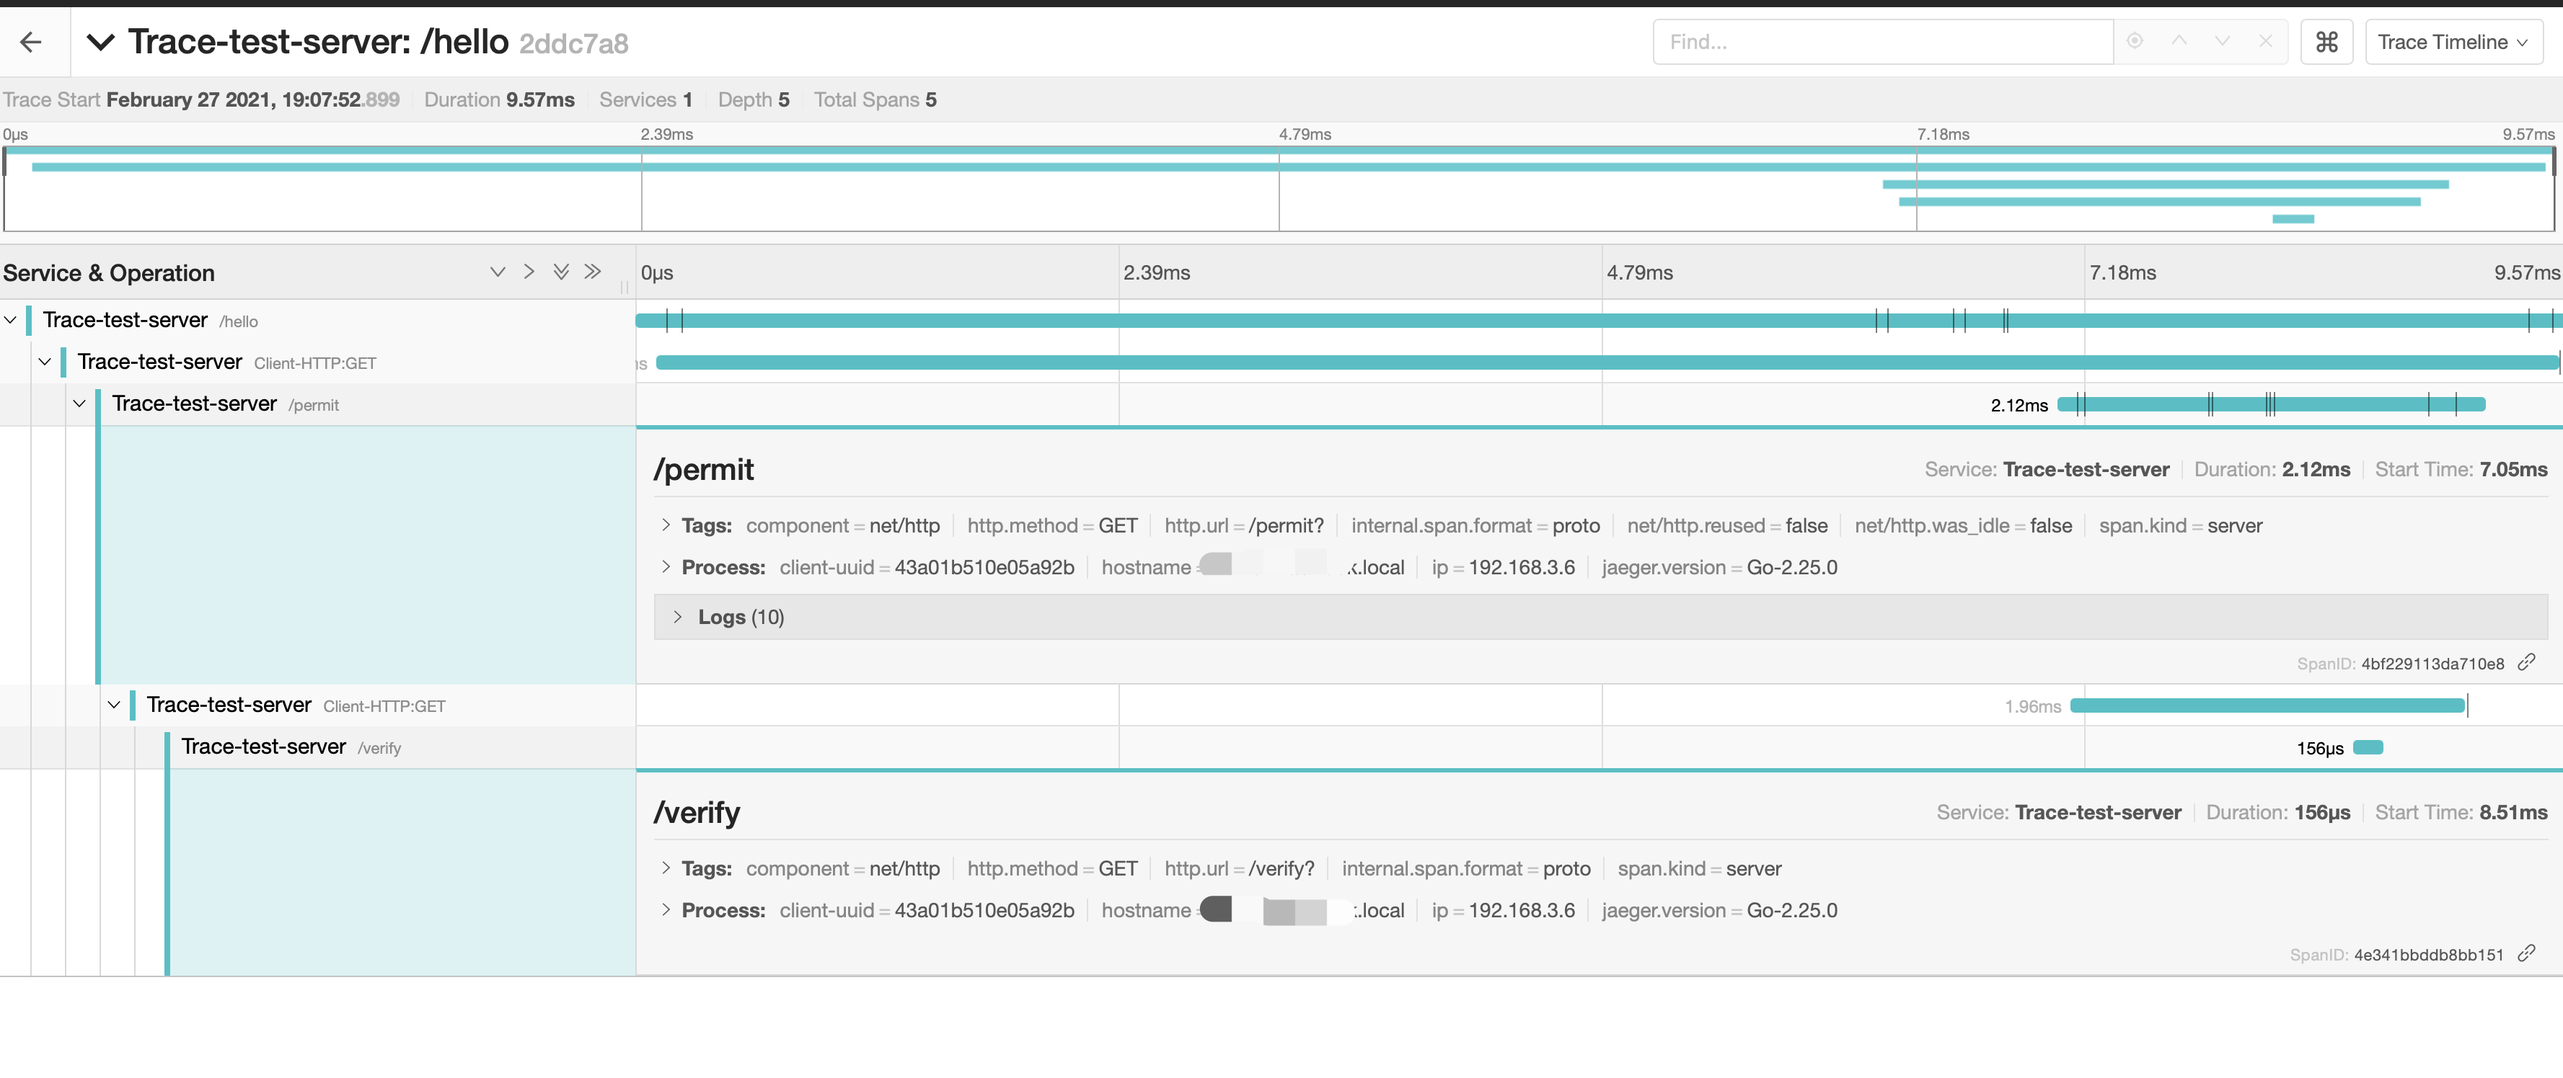
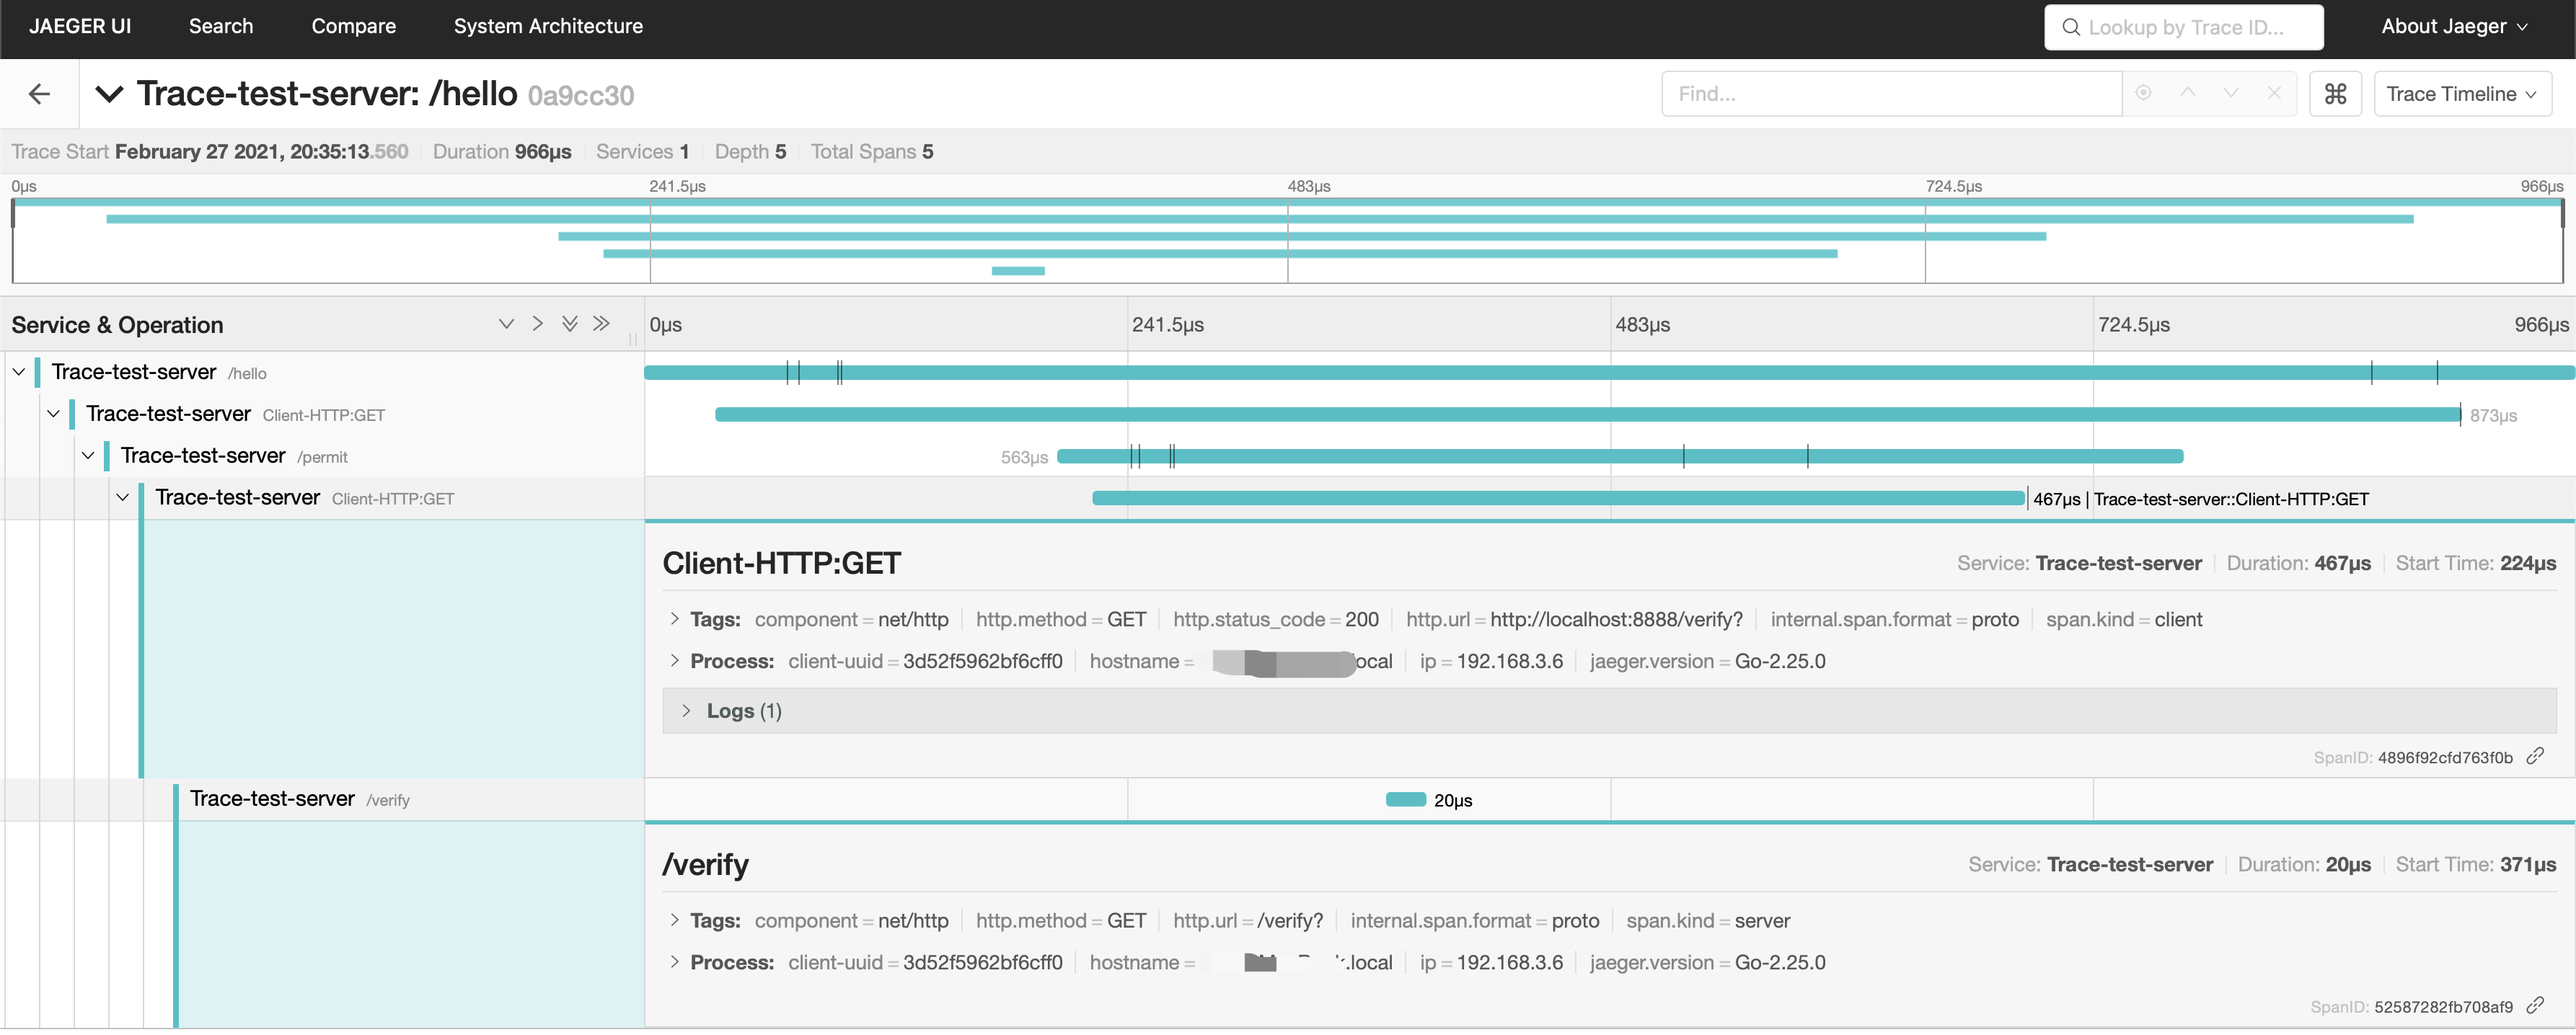
update documents

diff --git a/README.md b/README.md
@@ -159,15 +159,16 @@ func verify(c *http.Context) {
 }
 
 // 请求http://localhost:8888/hello服务器响应以下日志
-// 2021/02/27 19:07:52 Reporting span 2ddc7a80d532336c:4e341bbddb8bb151:7551abc812599b58:1
-// [20210227 19:07:52] 200 GET /verify HTTP/1.1 (::1) 325.801µs 
-// 2021/02/27 19:07:52 Reporting span 2ddc7a80d532336c:7551abc812599b58:4bf229113da710e8:1
-// 2021/02/27 19:07:52 Reporting span 2ddc7a80d532336c:4bf229113da710e8:772eba11f44bb7ee:1
-// [20210227 19:07:52] 200 GET /permit HTTP/1.1 (::1) 2.224567ms 
-// 2021/02/27 19:07:52 Reporting span 2ddc7a80d532336c:772eba11f44bb7ee:2ddc7a80d532336c:1
-// 2021/02/27 19:07:52 Reporting span 2ddc7a80d532336c:2ddc7a80d532336c:0000000000000000:1
-// [20210227 19:07:52] 200 GET /hello HTTP/1.1 (::1) 9.59485ms 
-// 2021/02/27 19:07:53 Reporting span 2f2ebca3bb61fdf6:2f2ebca3bb61fdf6:0000000000000000:1
+// 2021/02/27 20:35:13 Reporting span 0a9cc3026e52249d:52587282fb708af9:4896f92cfd763f0b:1
+// [20210227 20:35:13] 200 GET /verify HTTP/1.1 (::1) 82.635µs 
+// 2021/02/27 20:35:13 Reporting span 0a9cc3026e52249d:4896f92cfd763f0b:048629f89ffbcba3:1
+// INFO[0014] hello request verify, resp:verify            
+// 2021/02/27 20:35:13 Reporting span 0a9cc3026e52249d:048629f89ffbcba3:5df237a3658986e1:1
+// [20210227 20:35:13] 200 GET /permit HTTP/1.1 (::1) 585.927µs 
+// 2021/02/27 20:35:13 Reporting span 0a9cc3026e52249d:5df237a3658986e1:0a9cc3026e52249d:1
+// INFO[0014] hello request permit, resp:permit            
+// 2021/02/27 20:35:13 Reporting span 0a9cc3026e52249d:0a9cc3026e52249d:0000000000000000:1
+// [20210227 20:35:13] 200 GET /hello HTTP/1.1 (::1) 990.624µs
 ```
 
 #### License
